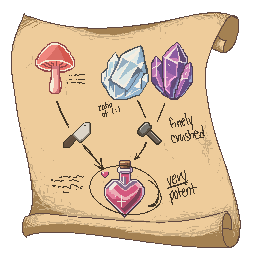
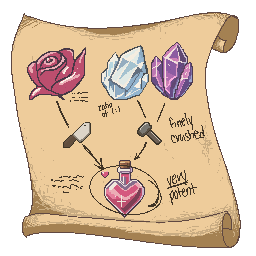
new recipie

Changed region(s): [[0.0938, 0.1562, 0.3438, 0.4062]]

diff --git a/scripting/Ingredient.cpp b/scripting/Ingredient.cpp
@@ -56,6 +56,30 @@ void Ingredient::Update()
             entity->RemoveComponent<SpriteRenderer>();
             entity->AddComponent<SpriteRenderer>(true, "Guy");
         }
+    } else if (ingredient->name.compare("RoseIngredient") == 0) {
+        if (ingredient->actionStates[Action::Cut].progress > 0) {
+            ingredient->name = "RoseCutIngredient";
+            ingredient->actionStates[Action::Smash].progress = 0;
+            ingredient->actionStates[Action::Eat].progress = 0;
+            ingredient->actionStates[Action::Brew].progress = 0;
+            ingredient->actionStates[Action::Cut].progress = 0;
+
+            entity->RemoveComponent<SpriteRenderer>();
+            entity->AddComponent<SpriteRenderer>(true, "Guy");
+            // TODO update when rose cut sprite is finished
+        }
+    } else if (ingredient->name.compare("LeafIngredient") == 0) {
+        if (ingredient->actionStates[Action::Cut].progress > 0) {
+            ingredient->name = "LeafCutIngredient";
+            ingredient->actionStates[Action::Smash].progress = 0;
+            ingredient->actionStates[Action::Eat].progress = 0;
+            ingredient->actionStates[Action::Brew].progress = 0;
+            ingredient->actionStates[Action::Cut].progress = 0;
+
+            entity->RemoveComponent<SpriteRenderer>();
+            entity->AddComponent<SpriteRenderer>(true, "Guy");
+            // TODO update when leaf cut sprite  -- if any is finished
+        }
     } else if (ingredient->name.compare("MushroomIngredient") == 0) {
         if (ingredient->actionStates[Action::Cut].progress > 0) {
             ingredient->name = "MushroomCutIngredient";
@@ -115,11 +139,15 @@ void Ingredient::Interact(InteractPayload* payload)
             GetTransform()->position().x == 160 && GetTransform()->position().y == 236;
         bool mushroomOnShelf = ingredient->name.compare("MushroomIngredient") == 0 && 
             GetTransform()->position().x == 280 && GetTransform()->position().y == 236;
+        bool roseOnShelf = ingredient->name.compare("RoseIngredient") == 0 && 
+            GetTransform()->position().x == 160 && GetTransform()->position().y == 186;
+        bool leafOnShelf = ingredient->name.compare("LeafIngredient") == 0 && 
+            GetTransform()->position().x == 280 && GetTransform()->position().y == 186;
         bool purpleQuartzOnShelf = ingredient->name.compare("PurpleQuartzIngredient") == 0 && 
             GetTransform()->position().x == 160 && GetTransform()->position().y == 136;
         bool whiteQuartzOnShelf = ingredient->name.compare("WhiteQuartzIngredient") == 0 && 
             GetTransform()->position().x == 280 && GetTransform()->position().y == 136;
-        if (flowerOnShelf || mushroomOnShelf || purpleQuartzOnShelf || whiteQuartzOnShelf) {
+        if (flowerOnShelf || mushroomOnShelf || purpleQuartzOnShelf || whiteQuartzOnShelf || roseOnShelf || leafOnShelf) {
             duplicateIngredient();
         }
     }

diff --git a/scripting/WorkStation.cpp b/scripting/WorkStation.cpp
@@ -74,7 +74,7 @@ void WorkStation::Interact(InteractPayload* payload)
                     Player::Instance->brew();
                     // TODO: Refactor with recipe manager
                     // Current version is hard coded for testing purposes
-                    if (ingredientCounts.count("PurpleQuartzSmashedIngredient") && ingredientCounts.count("WhiteQuartzSmashedIngredient") && ingredientCounts.count("MushroomCutIngredient")) {
+                    if (ingredientCounts.count("PurpleQuartzSmashedIngredient") && ingredientCounts.count("WhiteQuartzSmashedIngredient") && ingredientCounts.count("RoseCutIngredient")) {
                         ingredientCounts.clear();
                         isEmpty = true;
                         glm::vec2 newPos(GetTransform()->position().x, GetTransform()->position().y - 64);
@@ -90,6 +90,14 @@ void WorkStation::Interact(InteractPayload* payload)
                         newPotion->AddComponent<SpriteLoader>(true, "sprtShader");
                         newPotion->AddComponent<SpriteRenderer>(true, "red_potion");
                         newPotion->AddComponent<Potion>(true, "red_potion");
+                    } else if (ingredientCounts.count("MushroomCutIngredient") && ingredientCounts.count("LeafIngredient")) {
+                        ingredientCounts.clear();
+                        isEmpty = true;
+                        glm::vec2 newPos(GetTransform()->position().x, GetTransform()->position().y - 64);
+                        Entity* newPotion = SceneManager::Get()->getScene()->Instantiate("GreenPotion", newPos, glm::vec2{64, 64}, 0, 1);
+                        newPotion->AddComponent<SpriteLoader>(true, "sprtShader");
+                        newPotion->AddComponent<SpriteRenderer>(true, "green_potion");
+                        newPotion->AddComponent<Potion>(true, "green_potion");
                     } else if (ingredientCounts.count("FlowerIngredient")) {
                         ingredientCounts.clear();
                         isEmpty = true;

diff --git a/scripting/RecipeManager.cpp b/scripting/RecipeManager.cpp
@@ -27,6 +27,7 @@ void RecipeManager::Awake()
     recipeRendererList->AppendSprite("LovePotionRecipe");
     recipeRendererList->AppendSprite("RedPotionRecipe");
     recipeRendererList->AppendSprite("BluePotionRecipe");
+    recipeRendererList->AppendSprite("GreenPotionRecipe");
 
 
     mainBookSpriteRenderer = entity->GetComponent<SpriteRenderer>();

diff --git a/scripting/Customer.cpp b/scripting/Customer.cpp
@@ -88,6 +88,7 @@ void Customer::Interact(InteractPayload* payload)
 				patience --;
 				if (patience==0){
 					// walk back!
+					PotionShop::Get()->reputation--;
 					m_MovementTimer = 6;
 					walkDir = 1;
 				}
